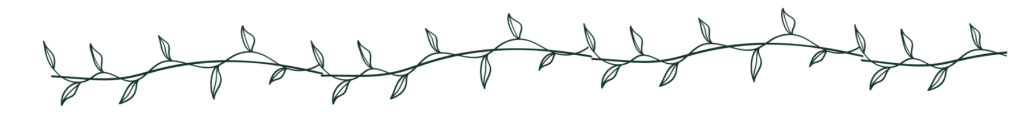
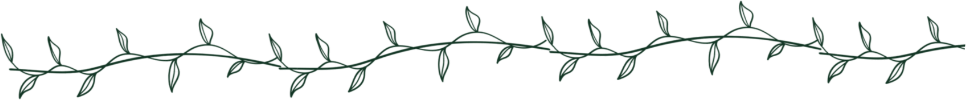
Refine vine divider to act as a seamless color boundary with cropped image

Changed region(s): [[0.0, 0.03, 1.0, 0.99], [0.6522, 0.12, 0.6832, 0.15], [0.0932, 0.3, 0.1242, 0.33]]

diff --git a/index.css b/index.css
@@ -258,13 +258,21 @@ img {
 -------------------------------------------------- */
 .vine-divider-container {
     width: 100%;
-    height: 40px;
-    margin: 40px 0;
-    background-image: url('assets/vine-divider-horizontal.png');
-    background-size: contain;
-    background-repeat: repeat-x;
-    background-position: center;
-    opacity: 0.45; /* Subtle transition */
+    height: 50px;
+    margin: 0;
+    opacity: 0.9;
+}
+
+.divider-hero-slideshow {
+    background: 
+        url('assets/vine-divider-horizontal.png') center/auto 80% repeat-x,
+        linear-gradient(to bottom, transparent 50%, var(--color-white) 50%);
+}
+
+.divider-slideshow-cards {
+    background: 
+        url('assets/vine-divider-horizontal.png') center/auto 80% repeat-x,
+        linear-gradient(to bottom, var(--color-white) 50%, var(--color-bg) 50%);
 }
 
 .landing-cards {

diff --git a/index.html b/index.html
@@ -49,7 +49,7 @@
         </div>
     </section>
 
-    <div class="vine-divider-container"></div>
+    <div class="vine-divider-container divider-hero-slideshow"></div>
 
     <!-- Slideshow Section -->
     <section class="slideshow-section" id="portfolio-slideshow">
@@ -158,8 +158,8 @@
             </div>
         </div>
     </section>
-
-    <div class="vine-divider-container"></div>
+    
+    <div class="vine-divider-container divider-slideshow-cards"></div>
 
     <!-- Navigation Cards Section -->
     <section class="landing-cards">
